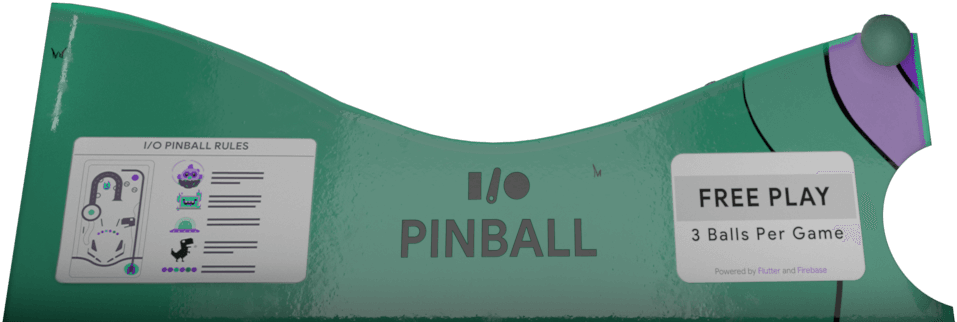
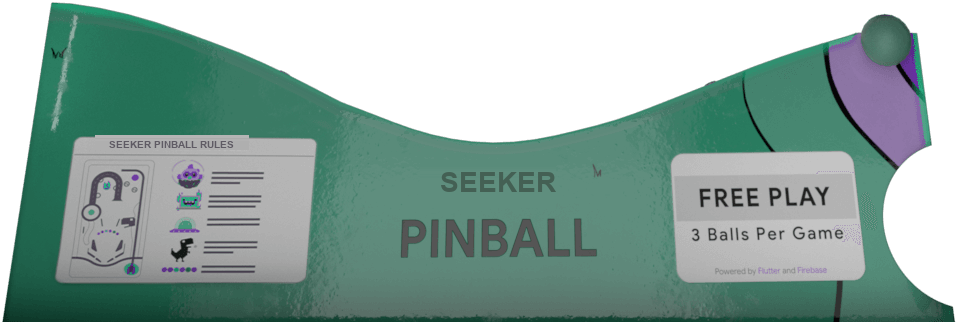
fix: remove animatronics, fix plunger launch, update SEEKER letters, add audio unlock
Remove animatronic sprite components from all 4 zones to eliminate
missing-asset errors. Fix plunger to use fixed compression distance
for consistent launches instead of unreliable body position. Replace
GOOGLE letter sprites with SEEKER-branded versions. Add Web Audio
context unlock script to handle browser autoplay policy.

Changed region(s): [[0.4545, 0.528, 0.5758, 0.6211], [0.0909, 0.4037, 0.2727, 0.4658]]

diff --git a/packages/pinball_components/lib/src/components/plunger/behaviors/plunger_releasing_behavior.dart b/packages/pinball_components/lib/src/components/plunger/behaviors/plunger_releasing_behavior.dart
@@ -6,10 +6,13 @@ class PlungerReleasingBehavior extends Component
     with FlameBlocListenable<PlungerCubit, PlungerState> {
   PlungerReleasingBehavior({
     required double strength,
+    required double compressionDistance,
   })  : assert(strength >= 0, "Strength can't be negative."),
-        _strength = strength;
+        _strength = strength,
+        _compressionDistance = compressionDistance;
 
   final double _strength;
+  final double _compressionDistance;
 
   late final Plunger _plunger;
 
@@ -23,8 +26,11 @@ class PlungerReleasingBehavior extends Component
   void onNewState(PlungerState state) {
     super.onNewState(state);
     if (state.isReleasing) {
-      final velocity =
-          (_plunger.initialPosition.y - _plunger.body.position.y) * _strength;
+      // Use fixed max-compression velocity for consistent launches.
+      // Reading body.position here is unreliable because the prismatic
+      // joint motor (speed 1000) may have already pushed the plunger
+      // back between the physics step and this state-change callback.
+      final velocity = -_compressionDistance * _strength;
       _plunger.body.linearVelocity = Vector2(0, velocity);
     }
   }

diff --git a/web/index.html b/web/index.html
@@ -26,6 +26,30 @@
       console.error('Unhandled Promise Rejection:', event.reason);
     };
   </script>
+  <script>
+    // Web Audio unlock: audioplayers_web creates a new AudioContext per player.
+    // Contexts created before user interaction start "suspended" (browser policy).
+    // Track all contexts and resume them on first user gesture.
+    (function() {
+      var _contexts = [];
+      var _Orig = window.AudioContext || window.webkitAudioContext;
+      if (!_Orig) return;
+      window.AudioContext = function AudioContext() {
+        var ctx = new _Orig();
+        _contexts.push(ctx);
+        return ctx;
+      };
+      window.AudioContext.prototype = _Orig.prototype;
+      function unlock() {
+        _contexts.forEach(function(c) {
+          if (c.state === 'suspended') c.resume();
+        });
+      }
+      ['click', 'touchstart', 'keydown'].forEach(function(e) {
+        document.addEventListener(e, unlock, { passive: true });
+      });
+    })();
+  </script>
   <meta content="IE=Edge" http-equiv="X-UA-Compatible">
   <meta name="description"
     content="Seeker Pinball - A crypto-themed pinball game built with Flutter & Firebase.">

diff --git a/lib/game/components/android_acres/android_acres.dart b/lib/game/components/android_acres/android_acres.dart
@@ -49,11 +49,6 @@ class AndroidAcres extends Component {
               create: AndroidSpaceshipCubit.new,
               children: [
                 AndroidSpaceship(position: Vector2(-26.5, -28.5)),
-                AndroidAnimatronic(
-                  children: [
-                    ScoringContactBehavior(points: Points.twoHundredThousand),
-                  ],
-                )..initialPosition = Vector2(-26, -28.25),
                 AndroidSpaceshipBonusBehavior(),
               ],
             ),

diff --git a/lib/game/components/dino_desert/dino_desert.dart b/lib/game/components/dino_desert/dino_desert.dart
@@ -15,16 +15,9 @@ class DinoDesert extends Component {
   DinoDesert()
       : super(
           children: [
-            ChromeDino(
-              children: [
-                ScoringContactBehavior(points: Points.twoHundredThousand)
-                  ..applyTo(['inside_mouth']),
-              ],
-            )..initialPosition = Vector2(12.2, -6.9),
             _BarrierBehindDino(),
             DinoWalls(),
             Slingshots(),
-            ChromeDinoBonusBehavior(),
           ],
         );
 

diff --git a/lib/game/components/sparky_scorch/sparky_scorch.dart b/lib/game/components/sparky_scorch/sparky_scorch.dart
@@ -33,11 +33,6 @@ class SparkyScorch extends Component {
                 BumperNoiseBehavior(),
               ],
             )..initialPosition = Vector2(-3.3, -52.55),
-            SparkyAnimatronic(
-              children: [
-                AnimatronicLoopingBehavior(animationCoolDown: 8),
-              ],
-            )..position = Vector2(-14, -58.2),
             SparkyComputer(
               children: [
                 ScoringContactBehavior(points: Points.twoHundredThousand)

diff --git a/packages/pinball_components/lib/src/components/plunger/plunger.dart b/packages/pinball_components/lib/src/components/plunger/plunger.dart
@@ -24,7 +24,10 @@ class Plunger extends BodyComponent with InitialPosition, Layered, ZIndex {
               create: PlungerCubit.new,
               children: [
                 _PlungerSpriteAnimationGroupComponent(),
-                PlungerReleasingBehavior(strength: 11),
+                PlungerReleasingBehavior(
+                  strength: 11,
+                  compressionDistance: 9.2,
+                ),
                 PlungerNoiseBehavior(),
               ],
             ),

diff --git a/lib/game/components/flutter_forest/flutter_forest.dart b/lib/game/components/flutter_forest/flutter_forest.dart
@@ -51,11 +51,6 @@ class FlutterForest extends Component with ZIndex {
                     BumperNoiseBehavior(),
                   ],
                 )..initialPosition = Vector2(21.8, -46.75),
-                DashAnimatronic(
-                  children: [
-                    AnimatronicLoopingBehavior(animationCoolDown: 11),
-                  ],
-                )..position = Vector2(20, -66),
                 FlutterForestBonusBehavior(),
               ],
             ),
